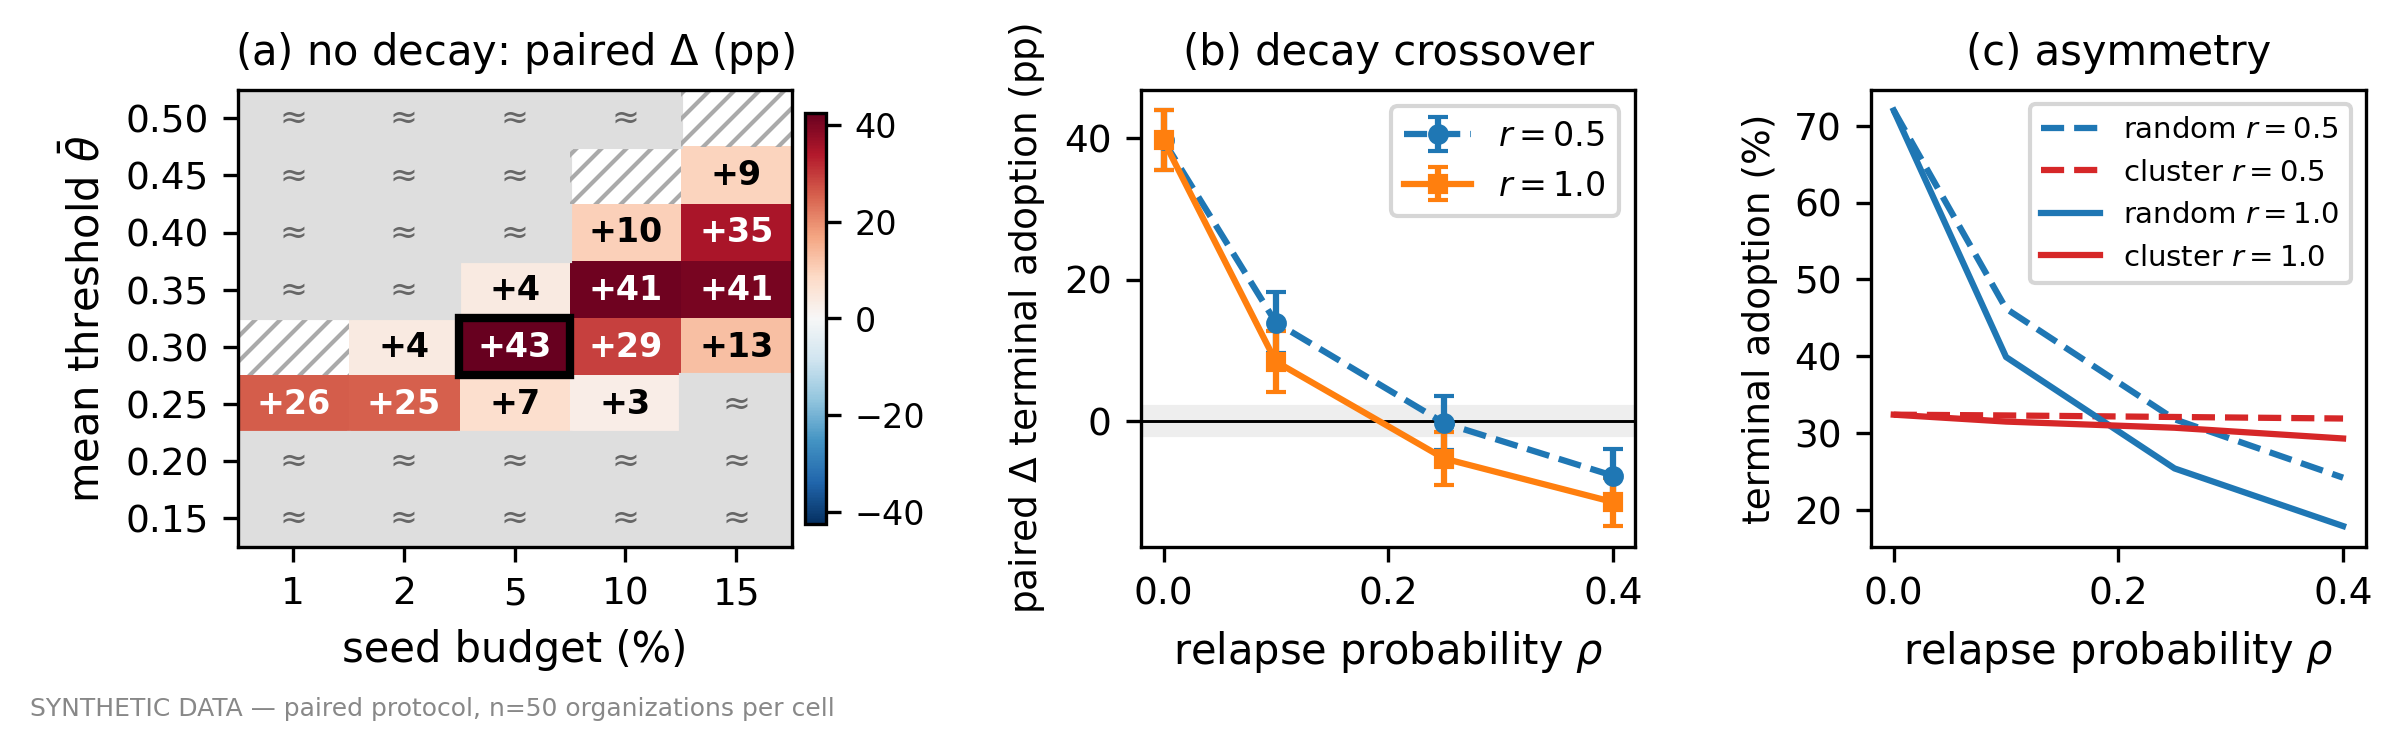
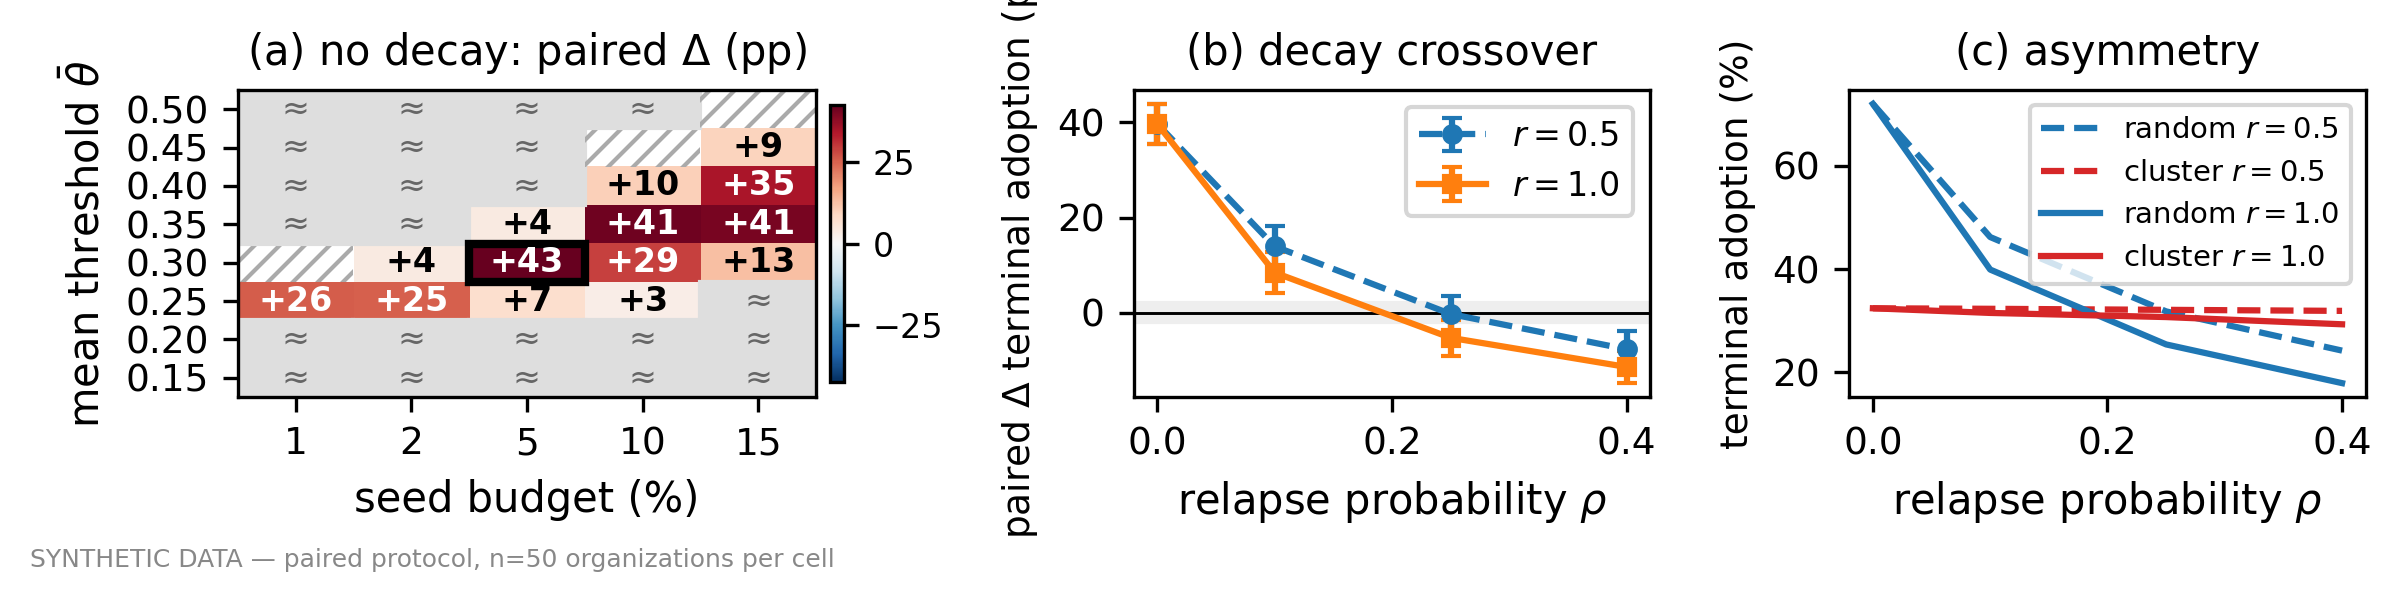
S3.1 submission polish: reviewer-contestable wording removed (CP2 pass)
Language-level corrections only — no data, seeds, or scientific claims changed:
- Abstract: 'All data are synthetic' replaced by the exact three-way statement
  (simulated diffusion outcomes / synthetic behavioral attributes / real
  eu-core topology); 'bit-for-bit reproducible' -> released code with frozen
  seeds reproduces every number.
- Pairing described exactly: same 50 organizations WITHIN each condition cell
  (cells may use independent samples); the shared between-organization
  variance component drops out (not 'variance cancels').
- 'pre-registered/pre-declared' -> 'pre-specified in a version-controlled
  decision log before execution' everywhere (no external registry); D21
  wording now states AUC 0.64 is below even the 0.70 partial threshold.
- Decay mechanism aligned with the cumulative results: 'whether dispersed
  ignitions compound into organization-wide growth' (was 'whether ignition
  survives'); 'loses everything' removed (cluster endures / dispersed
  collapses with exact figures).
- Valente no longer credited with 'seed dense clusters, never scatter':
  taxonomies stress matching interventions to context; the clustering
  expectation is attributed to the wide-bridges complex-contagion results.
- 21-entry limitations file; 'single successful full-pipeline execution'
  scoped to the paired results; 'on average' on team counts; robustness
  variants labeled descriptive.
- Same wording sweep applied to limitations.md, REVIEWER_RATIONALE.md,
[…]

diff --git a/paper/main.tex b/paper/main.tex
@@ -4,8 +4,9 @@
 % statistics derive from paper/numbers.json via paper/extract_numbers.py and
 % are checked by paper/audit_numbers.py — no hand-typed numbers).
 % Source policy (D19, ratified at CP1): every seeded-strategy mean/contrast is
-% PAIRED (same 50 organizations, identical agent draws per condition); the
-% independent panel is cited only for broadcast and the p_innov=0 ablation.
+% PAIRED (within each condition cell, the same 50 organizations and agent
+% draws; cells may use independent samples); the independent panel is cited
+% only for broadcast and the p_innov=0 ablation.
 \documentclass{llncs}
 \usepackage{mathptmx}
 \usepackage{helvet}
@@ -35,21 +36,21 @@ a decay-driven crossover in modular complex contagions}
 \begin{abstract}
 Should a costly new practice be seeded into a few dense teams, or scattered
 across the organization? We study this on synthetic two-layer organizations
-of dense small teams, using fractional-threshold contagion with
-heterogeneous thresholds, an innovator atom, and credibility-weighted
-exposure, under a \emph{paired} protocol: every strategy runs on the same 50
-organizations with identical agent draws. Without decay, dispersed seeding
-dominates wherever a
-cascade can ignite: $+39.7$ percentage points of terminal adoption over
-cluster seeding at the headline setting (95\% CI $[35.4, 43.9]$), winning 14
-of 40 cells of a threshold$\times$budget map (up to $+43$\,pp; equivalent
-within $\pm2$\,pp in 23; cluster wins none). Under
+of dense small teams, using fractional-threshold contagion (heterogeneous
+thresholds, innovator atom, credibility-weighted exposure) under a
+\emph{paired} protocol: within each condition, every strategy runs on the
+same 50 organizations with identical agent draws. Without decay, dispersed
+seeding dominates wherever a cascade can ignite: $+39.7$ percentage points
+of terminal adoption over cluster seeding at the headline setting (95\% CI
+$[35.4, 43.9]$), winning 14 of 40 cells of a threshold--budget map and
+losing none (23 cells equivalent within $\pm2$\,pp). Under
 reinforcement-dependent decay the advantage shrinks
 and \emph{reverses} between the tested relapse rates: dispersed cascades stop
-growing, while clustered adoption stays near 30\% almost regardless of decay
-strength. The sign of the contrast replicates on a real modular topology
-(email-Eu-core, synthetic behavioral attributes). All data are synthetic
-and bit-for-bit reproducible from one master seed.
+growing, while clustered adoption stays near 30\% almost regardless of
+decay. The sign of the contrast replicates on a real modular topology
+(email-Eu-core, synthetic behavioral attributes). All diffusion outcomes are
+simulated and all behavioral attributes synthetic; released code with frozen
+seeds reproduces every number.
 \keywords{complex contagion, threshold models, seeding strategies,
 organizational networks, agent-based simulation}
 \end{abstract}
@@ -60,21 +61,22 @@ Threshold models~\cite{granovetter1978} make costly adoption require
 reinforcement from multiple credible sources. Cascades on random graphs obey a vulnerability
 boundary~\cite{watts2002}; \emph{complex contagions} need wide bridges of
 overlapping ties, which long-range shortcuts destroy~\cite{centola2007,centola2010}.
-Network-intervention practice~\cite{valente2012} distilled this into
-\emph{seed dense clusters, never scatter}---evidenced largely in populations
-not already embedded in cohesive groups. Adjacent results
+Network-intervention taxonomies~\cite{valente2012} stress matching the
+intervention to context; the expectation that \emph{clustered seeding should
+win} follows from those wide-bridges results---evidenced largely in
+populations not already embedded in cohesive groups. Adjacent results
 strain it: modularity aids cascades only up to an
 optimum~\cite{nematzadeh2014}; dispersed neighbor seeding beats clustered
 seeding in threshold models~\cite{ou2022}; seed placement is its own
 measurement problem~\cite{guilbeault2021,tanase2026}; random ties match or
 beat clustered ties unless interest decays
 fast~\cite{wan2025,sassine2024}---a structural reach--reinforcement
-trade-off. We test its \emph{seeding-strategy} analogue at fixed topology and
-ask \emph{when decay reverses the ordering}. Real organizations are
+trade-off whose \emph{seeding-strategy} analogue we test at fixed topology,
+asking \emph{when decay reverses the ordering}. Real organizations are
 modular---nearly everyone already sits inside a dense small team---so what
 does cluster seeding buy when every seed is already surrounded by a cluster?
-We answer with a transparent mechanistic agent-based model under a paired,
-pre-declared protocol (decision log ships with the code).\looseness=-1
+We answer with a transparent agent-based model under a paired protocol
+pre-specified in a version-controlled decision log.\looseness=-1
 
 \section{Model and paired protocol}
 \label{sec:model}
@@ -101,24 +103,25 @@ transient comms term during a broadcast. Adoption requires
 synchronous. Decay (off unless stated): an adopter relapses with probability
 $\rho$ per step while $\mathrm{share}_i<r\,\theta_i$, where $r$ sets how much
 reinforcement retention requires. We report \emph{terminal adoption} (adopted
-share among active agents at the fixed point; 98--100\% of runs converge)
-and, secondarily, \emph{cumulative reach} (ever-adopted share). Four seeded
+share among active agents at the fixed point; 98--100\% converge) and,
+secondarily, \emph{cumulative reach} (ever-adopted share). Four seeded
 strategies share a 5\% budget (100 seeds): \emph{random}, \emph{champions}
 (top informal degree), \emph{cluster} (whole teams), \emph{one-per-team}
 (round-robin coverage); \emph{broadcast} is a zero-seed awareness
 baseline---fixed heuristics, not influence-maximization
 optima~\cite{kempe2003,ou2022}.\looseness=-1
 
-\emph{Paired protocol.} Every condition runs on the \emph{same} 50 fresh
-organizations with \emph{identical} threshold\slash willingness\slash ability
-draws (common random numbers), so strategy contrasts are paired
-differences---between-organization variance (9--16\,pp) cancels. Two
-confirmatory families (regime map, decay grid) were pre-declared and
-Holm-corrected for both difference and TOST-equivalence against a
-$\pm2$\,pp practical band; each cell gets a three-way verdict: \emph{win},
-\emph{equivalent} (within $\pm2$\,pp, for the tested cells and model), or
-\emph{uncertain}. Seeds were frozen before execution; all results come from
-a single successful full-pipeline execution ($6\,350$
+\emph{Paired protocol.} Within each condition cell, every strategy runs on
+the \emph{same} 50 fresh organizations with \emph{identical} agent draws
+(common random numbers; cells may use independent samples), so contrasts
+are paired differences from which the shared between-organization variance
+component (9--16\,pp) drops out. Two confirmatory families (regime map,
+decay grid) were pre-specified in a version-controlled decision log before
+execution and Holm-corrected for both difference and TOST-equivalence
+against a $\pm2$\,pp practical band; each cell gets a three-way verdict:
+\emph{win}, \emph{equivalent} (within $\pm2$\,pp, for the tested cells and
+model), or \emph{uncertain}. Seeds were frozen before execution; all paired
+results come from a single successful full-pipeline execution ($6\,350$
 simulations).\looseness=-1
 
 \begin{figure}[t]
@@ -129,9 +132,8 @@ simulations).\looseness=-1
 pairs/cell; Holm-corrected difference and TOST families): red = dispersion
 wins; ``$\approx$'' = equivalent within $\pm2$\,pp; hatched = uncertain;
 box = headline setting. (b)~The same contrast under decay (95\% CIs;
-$\pm2$\,pp band): the advantage shrinks and reverses between tested $\rho$.
-(c)~Absolute levels: clustered adoption barely moves; dispersed
-collapses.}
+$\pm2$\,pp band). (c)~Absolute levels: clustered adoption barely moves;
+dispersed collapses.}
 \label{fig:crossover}
 \end{figure}
 
@@ -144,9 +146,10 @@ headline setting, random seeding reaches $72.0\pm9.2$\% terminal adoption
 difference of $\mathbf{+39.7}$\,pp, 95\% CI $[35.4, 43.9]$. Degree targeting
 adds ${\sim}3.9$\,pp (descriptive, outside the confirmatory families), and
 coverage with one seed per team yields no clear difference from random
-($-1.4$\,pp, CI $[-5.0, +2.2]$)---random already lands seeds in $82$ of 249
-line teams (${\sim}205$ end at majority) vs.\ $13$ (${\sim}91$) for
-cluster. Across the map (Fig.~\ref{fig:crossover}a), dispersion wins 14 of
+($-1.4$\,pp, CI $[-5.0, +2.2]$)---on average, random already lands seeds in
+$82$ of 249 line teams (${\sim}205$ end at majority) vs.\ $13$
+(${\sim}91$) for cluster. Across the map (Fig.~\ref{fig:crossover}a),
+dispersion wins 14 of
 40 cells---the diagonal ignition band, $+2.8$ to $+42.6$\,pp ($[39.1,
 46.0]$ at the boxed headline cell, an independent paired sample at the same
 parameters)---the strategies are equivalent within $\pm2$\,pp (TOST) in 23
@@ -166,18 +169,18 @@ $+13.9$\,pp $[9.6, 18.3]$ at $\rho{=}0.10$, parity still uncertain at
 $\rho{=}0.25$ ($-0.3$\,pp $[-4.1, +3.5]$), reversal at $\rho{=}0.40$
 ($-7.7$\,pp $[-11.5, -3.9]$). The mechanism is asymmetric: clustered
 adoption barely moves ($32.4\%$ at $\rho{=}0$ to $29.3\%$ at the harshest
-setting) while dispersed adoption collapses ($72.0\%$ to $17.9\%$).
-Cumulative reach shows \emph{why}: at ($r{=}1$, $\rho{=}0.25$) random's
-ever-adopted share is only $29.0$\% (vs.\ $72$\% without decay)---relapse
-throttles the dispersed cascade \emph{while it grows}; retention ratios
-(descriptive) are $0.99$ (cluster) vs.\ $0.86$ (random). Concentration does
-not become a high performer under decay; it \emph{endures} near 30\% while
-dispersion loses everything.\looseness=-1
+setting)---it \emph{endures} rather than wins---while dispersed adoption
+collapses ($72.0\%$ to $17.9\%$). Cumulative reach shows \emph{why}: at
+($r{=}1$, $\rho{=}0.25$) random's ever-adopted share is only $29.0$\% (vs.\
+$72$\% without decay)---relapse throttles the dispersed cascade \emph{while
+it grows}; retention ratios (descriptive) are $0.99$ (cluster) vs.\ $0.86$
+(random).\looseness=-1
 
 \textbf{Robustness and a real topology.} The no-decay contrast keeps its
 sign across one-at-a-time organization variants ($N\in\{500, 2000, 8000\}$,
-team size $\{5, 12\}$, silo $\{0.5, 0.7, 0.95\}$): paired $\Delta$ from
-$+14.7$ to $+48.3$\,pp, all CIs excluding zero. On the real email-Eu-core
+team size $\{5, 12\}$, silo $\{0.5, 0.7, 0.95\}$; descriptive): paired
+$\Delta$ from $+14.7$ to $+48.3$\,pp, all CIs excluding zero. On the real
+email-Eu-core
 topology (986 nodes, 42 ground-truth departments; \emph{all behavioral
 attributes synthetic}) the contrast keeps its sign: $+13.5$\,pp
 $[1.0, 26.0]$ over 50 paired attribute draws. Adoption there is a bimodal
@@ -190,32 +193,31 @@ mechanism.\looseness=-1
 \label{sec:discussion}
 
 Once everyone already lives in a dense team, guaranteed local
-reinforcement---cluster seeding's defining asset---is no longer scarce, and
-scattering buys more ignition surface per seed. Decay changes not who wins
-ignition but \emph{whether ignition survives}: dispersed adoption needs
-continuing growth that relapse throttles; clustered adoption sits on local
-critical mass that relapse barely touches. The prescription is conditional
+reinforcement---cluster seeding's defining asset---is no longer scarce;
+scattering buys more ignition surface per seed, and decay then decides
+\emph{whether dispersed ignitions compound into organization-wide growth}:
+relapse throttles the growing cascade, while clustered adoption sits on
+local critical mass relapse barely touches. The prescription is conditional
 and asymmetric: \emph{disperse to ignite} when
 adoption reinforces itself; \emph{concentrate to endure} when reinforcement
-erodes quickly. Global visibility rescales
-thresholds exactly ($\theta/v$, unit-tested), so low visibility slides the
-organization across Fig.~\ref{fig:crossover}a and can change which strategy
-wins (correcting an earlier corollary). A pre-registered local-ignition
-predictor failed its validation gate (AUC $0.64<0.80$): most
-dispersed-seeding ignition is \emph{not explained by the local predictor};
-two-level modeling is future work. All of this holds within a synthetic, uncalibrated
+erodes quickly. A local-ignition predictor,
+pre-specified in the same decision log, failed its validation gates (AUC
+$0.64$, below even the $0.70$ partial threshold): most dispersed-seeding
+ignition is \emph{not explained by the local predictor}; a two-level model
+is future work. All of this holds within a synthetic, uncalibrated
 model family---thresholds unobserved, time abstract, decay parameters
-stipulated on a grid; a 19-entry limitations file ships with the
+stipulated on a grid; a 21-entry limitations file ships with the
 code.\looseness=-1
 
+\vspace{-4pt}
 \emph{Reproducibility.} Every modeling decision (D1--D22) is logged with
-alternatives and status; analysis families pre-declared, seeds frozen, one
-successful full-pipeline execution. CI fails if any published number
-changes; every statistic is machine-extracted and audited against the
-manuscript. Repository: AGPL-3.0, public at publication.\looseness=-1
+alternatives; analysis families pre-specified in that log; seeds
+frozen; one successful full-pipeline execution for the paired results. CI
+fails if any published number changes; every statistic is machine-extracted
+and audited. Repository: AGPL-3.0, public at publication.\looseness=-1
 
 \bibliographystyle{splncs03}
-\vspace{-16pt}
+\vspace{-14pt}
 \bibliography{refs}
 
 \end{document}

diff --git a/paper/audit_numbers.py b/paper/audit_numbers.py
@@ -75,7 +75,8 @@ def claims() -> list[tuple[str, str]]:
         ("eucore CI", f"[{r1(euc['contrast_random_cluster']['ci_pp'][0])}, {r1(euc['contrast_random_cluster']['ci_pp'][1])}]"),
         ("eucore graph", f"{euc['graph']['n_nodes_compiled']} nodes, {euc['graph']['n_departments']} ground-truth"),
         ("eucore ignition", f"{100*euc['ignition_share']['random']:.0f}\\% of draws, cluster in {100*euc['ignition_share']['cluster']:.0f}\\%"),
-        ("predictor gate", f"{pred['v1_auc']:.2f}<{pred['gate_go']:.2f}"),
+        ("predictor gate", f"AUC ${pred['v1_auc']:.2f}$, below even the "
+                           f"${pred['gate_partial']:.2f}$ partial threshold"),
         ("scenario N", f"N{{=}}{N['scenario']['n_agents']}"),
         ("line teams", f"{ph['n_line_teams']} line teams"),
     ]

diff --git a/experiments/cp1_analysis.py b/experiments/cp1_analysis.py
@@ -313,7 +313,7 @@ def fig_paper_crossover(reg: dict, dec: dict) -> None:
         cls_grid[i, j] = c["cls"]
 
     fig, (ax, axb, axc) = plt.subplots(
-        1, 3, figsize=(8.0, 2.45), dpi=300,
+        1, 3, figsize=(8.0, 1.95), dpi=300,
         gridspec_kw={"width_ratios": [1.35, 1.0, 1.0]})
 
     vmax = np.nanmax(np.abs(delta))

diff --git a/docs/limitations.md b/docs/limitations.md
@@ -100,15 +100,16 @@ organization.
     helps *scattered* strategies more (gains track outward credibility per seed:
     cluster 5.7 < random 11.7 < champions 16.1). See experiment 3.
 20. **The local-ignition predictor failed its pre-declared gate (D21:
-    no_go).** A semi-analytic within-team cascade model, pre-registered with
-    validation gates before execution, reached pooled AUC 0.642 (< 0.70) on
-    seeded-team ignition: ~90% of seeded teams end ignited under dispersed
+    no_go).** A semi-analytic within-team cascade model, pre-specified with
+    its validation gates in the version-controlled decision log before
+    execution, reached pooled AUC 0.642 — below even the 0.70 *partial*
+    threshold — on seeded-team ignition: ~90% of seeded teams end ignited under dispersed
     strategies, which the isolated-team model does not predict. Most ignition
     under dispersed seeding is **not explained by the local predictor** —
     consistent with, but not demonstrating, inter-team spillover as the
     dominant channel. The measured meso counts (CSV-derived) are the only
     mechanism claims the paper makes; the predictor is reported as a failed
-    pre-registration, and per-strategy AUCs (cluster 0.996 vs dispersed ~0.6)
+    pre-specification, and per-strategy AUCs (cluster 0.996 vs dispersed ~0.6)
     are descriptive only.
 21. **email-Eu-core is a sign replication, not a validation (D22).** Real
     topology (986 nodes, 42 ground-truth departments), ALL behavioral

diff --git a/paper/REVIEWER_RATIONALE.md b/paper/REVIEWER_RATIONALE.md
@@ -29,10 +29,13 @@
    stipulated ρ.
 
 **New surfaces a referee may probe (v2):**
-- *"Your predictor failed."* Yes — pre-registered, gates applied verbatim,
-  no_go reported in the paper (one transparency sentence). The mechanism
-  claims rest on measured meso counts only. This is a strength to defend, not
-  hide: pre-registration with a published negative outcome.
+- *"Your predictor failed."* Yes — pre-specified in the version-controlled
+  decision log before execution, gates applied verbatim (AUC 0.642, below
+  even the 0.70 partial threshold), no_go reported in the paper (one
+  transparency sentence). The mechanism claims rest on measured meso counts
+  only. This is a strength to defend, not hide: a pre-specified analysis
+  with a published negative outcome. (Wording: "pre-specified", never
+  "pre-registered" — there is no external registry.)
 - *"champions beats random — why isn't that the story?"* Descriptive (+3.9 pp,
   outside the confirmatory families); one clause in §3.1, never in the
   abstract, per CP1 arbitration.

diff --git a/docs/decisions.md b/docs/decisions.md
@@ -913,8 +913,11 @@ champions 0.694, random 0.631, one_per_team 0.591 — consistent with, not
 demonstrating, local ignition being predictable exactly where seeding is
 concentrated. Paper consequence = the pre-drafted no-go variant: the meso
 mechanism stays MEASURED (CSV-derived); the predictor is named as
-pre-registered and failed at its gate (one transparency sentence in the body,
-never the abstract); level-2 modeling is future work.
+pre-specified in this decision log and failed at its gates — AUC below even
+the partial threshold (one transparency sentence in the body, never the
+abstract); level-2 modeling is future work. Wording rule: "pre-specified in
+a version-controlled decision log", never "pre-registered" (no external
+registry was used).
 
 ## D22 — Real-topology replication: email-Eu-core (pre-declaration)
 

diff --git a/RESULTS_VERIFIED.md b/RESULTS_VERIFIED.md
@@ -3,7 +3,8 @@
 ## v2 — Paired S2 verification and the crossover finding (2026-08-02, CP1)
 
 > The **canonical numbers are now the PAIRED results** (D19, ratified at CP1):
-> single successful full-pipeline execution (6 350 simulations, frozen seeds,
+> single successful full-pipeline execution of the paired protocol (6 350
+> simulations, frozen seeds,
 > master 20260610 / exp4 (20260610, 4)); a control re-run of the paired
 > headline was **bit-identical**; the mechanical regeneration of the 8 legacy
 > CSVs (adding the cumulative_rate / retention_rate / seeded_teams columns)
